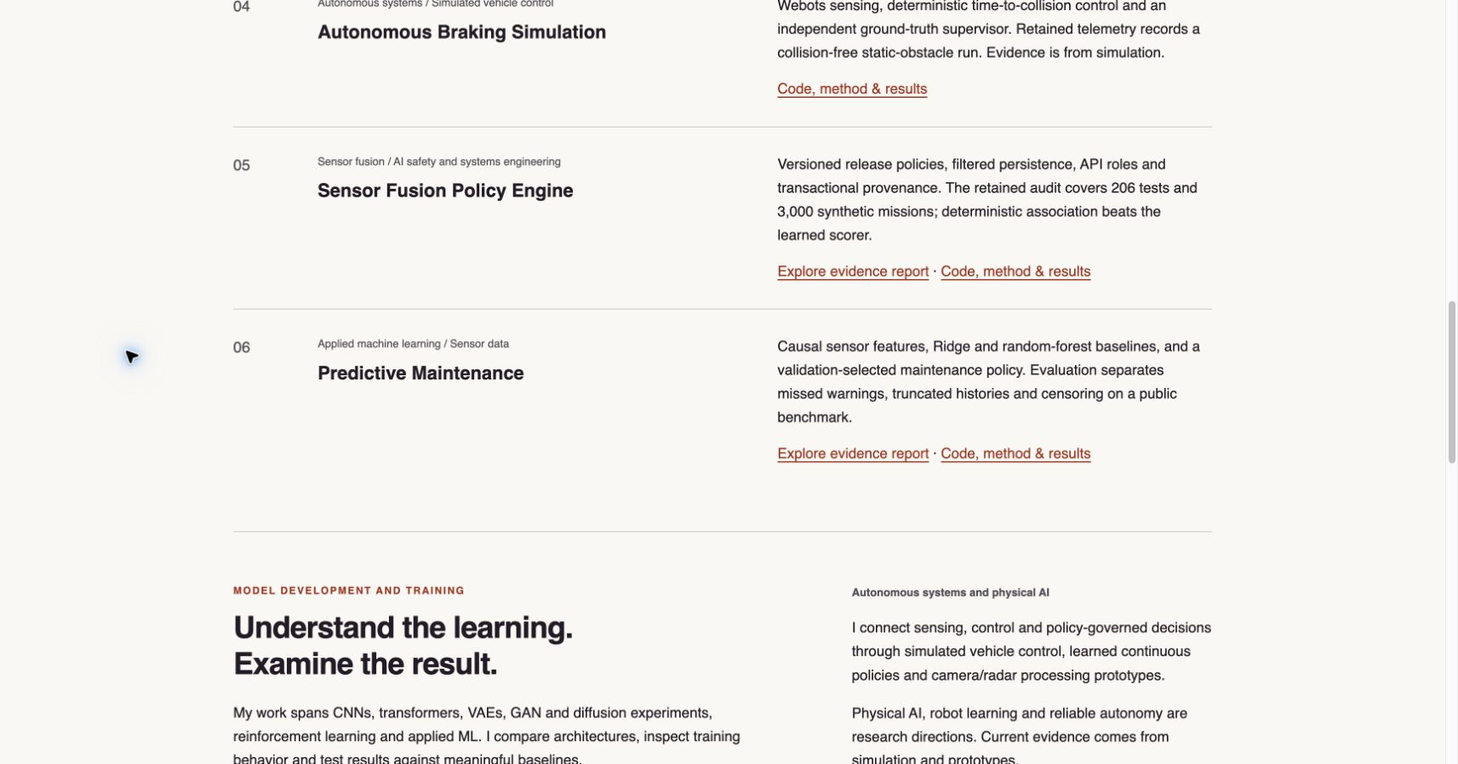
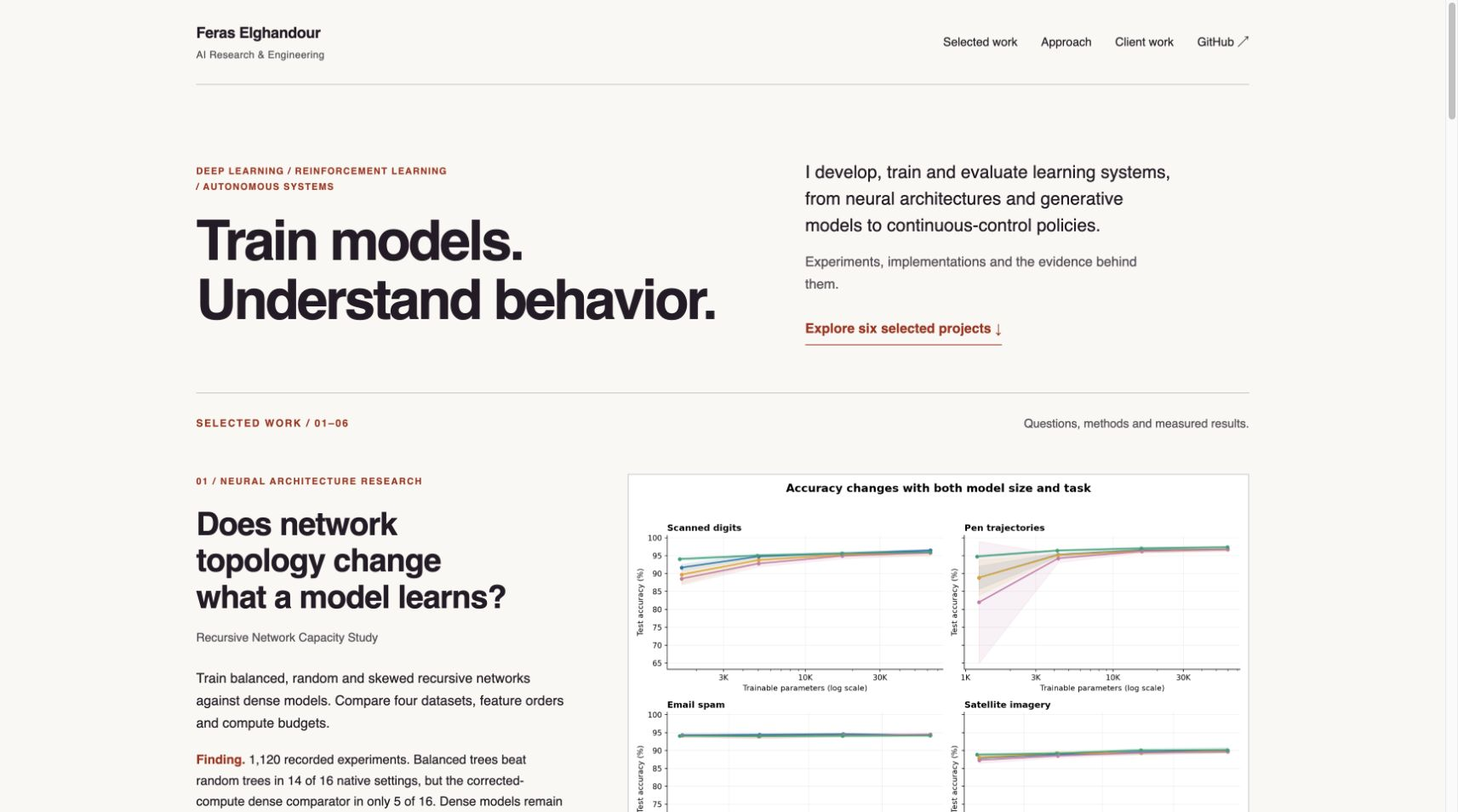
Illustrate six portfolio projects with recorded results and model diagrams

diff --git a/index.html b/index.html
@@ -1,1 +1,1 @@
-<!doctype html><html lang="en"><head><meta charset="utf-8"><meta name="viewport" content="width=device-width,initial-scale=1"><meta name="description" content="AI research engineering by Feras Elghandour: model training, deep learning, generative AI, reinforcement learning and autonomous systems. Explore six evidence-backed projects."><meta name="referrer" content="strict-origin-when-cross-origin"><meta http-equiv="Content-Security-Policy" content="default-src 'none'; script-src 'self'; style-src 'self' 'unsafe-inline'; img-src 'self' data:; connect-src 'none'; base-uri 'none'; form-action 'none'; object-src 'none'"><meta name="color-scheme" content="light"><title>AI Research Engineer | Deep Learning &amp; Autonomous Systems | Feras Elghandour</title><link rel="stylesheet" href="style.css"><link rel="icon" href="data:,"><link rel="canonical" href="https://feraselghandour.github.io/"><meta property="og:title" content="Feras Elghandour | AI Research Engineer | Deep Learning &amp; Autonomous Systems"><meta property="og:description" content="Model training, neural architecture experiments, generative models and autonomous systems. Inspect code, evaluations and six featured projects."><meta property="og:type" content="website"><meta property="og:url" content="https://feraselghandour.github.io/"><meta property="og:image" content="https://feraselghandour.github.io/assets/portfolio-preview.jpg"></head><body><a class="skip" href="#main">Skip to content</a><header><nav aria-label="Main navigation"><a href="https://feraselghandour.github.io/">Feras Elghandour</a><span><a href="#work">Featured projects</a> · <a href="#approach">Research &amp; training</a> · <a href="#client-work">Client work</a> · <a href="https://github.com/FerasElghandour">GitHub</a> · <a href="https://www.linkedin.com/in/feras-elghandour/">LinkedIn / inquiries</a></span></nav></header><main id="main"><section class="hero portfolio-hero"><p class="eyebrow">Feras Elghandour / AI Research Engineer</p><h1>Deep learning.<br>Autonomous systems.</h1><p class="intro">I develop, train and evaluate machine-learning models, from neural architectures and generative models to reinforcement-learning policies. I build experiments and engineering prototypes for sensing, control and reliable decisions.</p><p>My focus is how models learn: architecture choices, training behavior, meaningful baselines and failure analysis.</p><div class="links"><a class="button" href="#work">Explore six featured projects</a><a href="https://github.com/FerasElghandour">Inspect the code</a><a href="https://www.linkedin.com/in/feras-elghandour/">Discuss a role or project</a></div></section><section class="section" id="work"><p class="eyebrow">Selected research and engineering</p><h2>From model training to autonomous systems.</h2><p class="section-lead">Six projects spanning independent research, coursework and engineering prototypes. Each links to the implementation and its evaluation scope.</p><article class="row"><div class="number">01</div><div><p class="category">Independent research / Neural architecture training</p><h3><a href="https://github.com/FerasElghandour/recursive-network-capacity-study">Recursive Network Capacity Study</a></h3></div><div class="description"><p>Train and compare recursive and dense networks across 1,120 recorded experiments, with feature-order and compute controls. The study reports mixed results and competitive dense baselines.</p><a href="https://feraselghandour.github.io/recursive-network-capacity-study/">Explore evidence report</a> · <a href="https://github.com/FerasElghandour/recursive-network-capacity-study">Code, method &amp; results</a></div></article><article class="row"><div class="number">02</div><div><p class="category">Reinforcement learning / Continuous control</p><h3><a href="https://github.com/FerasElghandour/tennis-reinforcement-learning">Shared-Policy DDPG: Tennis</a></h3></div><div class="description"><p>Actor–critic training with replay and target updates. A saved policy averages 2.067 over 100 historical evaluation episodes from one training seed, with score auditing and portable inference.</p><a href="https://feraselghandour.github.io/tennis-reinforcement-learning/">Explore evidence report</a> · <a href="https://github.com/FerasElghandour/tennis-reinforcement-learning">Code, method &amp; results</a></div></article><article class="row"><div class="number">03</div><div><p class="category">Generative deep learning / Training and evaluation</p><h3><a href="https://github.com/FerasElghandour/tabular-vae-comparison">VAE and Beta-VAE Comparison</a></h3></div><div class="description"><p>A complete tabular generative-model experiment comparing reconstruction, latent representations and regularization. Includes a complete training and evaluation notebook from a coursework experiment on a small benchmark.</p><a href="https://github.com/FerasElghandour/tabular-vae-comparison">Code, method &amp; results</a></div></article><article class="row"><div class="number">04</div><div><p class="category">Autonomous systems / Simulated vehicle control</p><h3><a href="https://github.com/FerasElghandour/autonomous-braking-simulation">Autonomous Braking Simulation</a></h3></div><div class="description"><p>Webots sensing, deterministic time-to-collision control and an independent ground-truth supervisor. Recorded telemetry includes a collision-free static-obstacle run in simulation.</p><a href="https://github.com/FerasElghandour/autonomous-braking-simulation">Code, method &amp; results</a></div></article><article class="row"><div class="number">05</div><div><p class="category">Sensor fusion / AI safety and systems engineering</p><h3><a href="https://github.com/FerasElghandour/sensor-fusion-policy-engine">Sensor Fusion Policy Engine</a></h3></div><div class="description"><p>Versioned release policies, filtered persistence, API roles and transactional provenance. The retained audit covers 206 tests and 3,000 synthetic missions; deterministic association beats the learned scorer.</p><a href="https://feraselghandour.github.io/sensor-fusion-policy-engine/">Explore evidence report</a> · <a href="https://github.com/FerasElghandour/sensor-fusion-policy-engine">Code, method &amp; results</a></div></article><article class="row"><div class="number">06</div><div><p class="category">Applied machine learning / Sensor data</p><h3><a href="https://github.com/FerasElghandour/predictive-maintenance">Predictive Maintenance</a></h3></div><div class="description"><p>Causal sensor features, Ridge and random-forest baselines, and a validation-selected maintenance policy. Evaluation separates missed warnings, truncated histories and censoring on a public benchmark.</p><a href="https://feraselghandour.github.io/predictive-maintenance/">Explore evidence report</a> · <a href="https://github.com/FerasElghandour/predictive-maintenance">Code, method &amp; results</a></div></article></section><section class="section split" id="approach"><div><p class="eyebrow">Model development and training</p><h2>Understand the learning.<br>Examine the result.</h2><p>My work spans CNNs, transformers, VAEs, GAN and diffusion experiments, reinforcement learning and applied ML. I compare architectures, inspect training behavior and test results against meaningful baselines.</p><p>Independent experiments sit alongside coursework and engineering prototypes. Repositories identify contribution boundaries and distinguish retained training results from smaller public component editions.</p><p><a href="https://github.com/FerasElghandour#model-development-and-training">Explore the wider model-training portfolio</a></p></div><aside><p class="label">Autonomous systems and physical AI</p><p>I connect sensing, control and policy-governed decisions through simulated vehicle control, learned continuous policies and camera/radar processing prototypes.</p><p>Physical AI, robot learning and reliable autonomy are research directions. Current evidence comes from simulation and prototypes.</p><p class="small">AI safety work includes autonomous-system assurance research, inspectable policies and provenance. Evaluation scope and failure cases are part of the engineering.</p></aside></section><section class="section" id="client-work"><p class="eyebrow">Selected client engagements</p><h2>Commercial decisions. Practical delivery.</h2><p class="section-lead">Three anonymized engagements spanning profitability, sales operations and commerce delivery. Each account distinguishes my contribution, the delivered work and the outcome supported by the records.</p><article class="row"><div class="number">01</div><div><p class="category">Ecommerce strategy</p><h3><a href="case-studies/profitability-diagnostic/">Acquisition Economics &amp; Profitability</a></h3></div><div class="description"><p>A client-approved diagnostic connecting acquisition costs, offers, subscriptions and cash economics to a prioritized growth plan.</p><a href="case-studies/profitability-diagnostic/">Read client case study</a></div></article><article class="row"><div class="number">02</div><div><p class="category">B2B sales operations</p><h3><a href="case-studies/commercial-enablement/">Commercial Systems &amp; Sales Enablement</a></h3></div><div class="description"><p>Market research used in strategic discussion, paired with direct sales-team enablement and a practical CRM adoption plan.</p><a href="case-studies/commercial-enablement/">Read client case study</a></div></article><article class="row"><div class="number">03</div><div><p class="category">Digital commerce operations</p><h3><a href="case-studies/commerce-delivery/">Commerce Delivery &amp; Release QA</a></h3></div><div class="description"><p>Commercial launch direction and specialist delivery coordination, with a client-approved locator approach and accepted bilingual corrections.</p><a href="case-studies/commerce-delivery/">Read client case study</a></div></article></section><section class="section split"><div><h2>Built to be examined.</h2><p>Implementation and evaluation belong together. The portfolio includes validation boundaries, meaningful baselines, failure cases, and deployment instructions so a result can be questioned and reproduced.</p><p>Research studies report mixed and negative findings. Application demonstrations make their supported operating scope explicit.</p></div><aside><h2>Working together</h2><p>For research engineering, model training, deep learning or autonomous-system projects, start with the learning problem, available data and evaluation target. I also bring commercial experience in requirements, workflow adoption and delivery coordination.</p><a class="button" href="https://www.linkedin.com/in/feras-elghandour/">Connect on LinkedIn</a><p class="small">Canada · Client projects and employment inquiries</p></aside></section></main><footer>Feras Elghandour · AI Research Engineer · Deep Learning &amp; Autonomous Systems<br>Public demonstrations use attributed public data or synthetic examples. Client identities and private operating records are omitted.</footer></body></html>
+<!doctype html><html lang="en"><head><meta charset="utf-8"><meta name="viewport" content="width=device-width,initial-scale=1"><meta name="description" content="AI research engineering by Feras Elghandour: model training, deep learning, generative AI, reinforcement learning and autonomous systems. Explore six evidence-backed projects."><meta name="referrer" content="strict-origin-when-cross-origin"><meta http-equiv="Content-Security-Policy" content="default-src 'none'; script-src 'self'; style-src 'self' 'unsafe-inline'; img-src 'self' data: https://raw.githubusercontent.com/FerasElghandour/; connect-src 'none'; base-uri 'none'; form-action 'none'; object-src 'none'"><meta name="color-scheme" content="light"><title>AI Research Engineer | Deep Learning &amp; Autonomous Systems | Feras Elghandour</title><link rel="stylesheet" href="style.css"><link rel="stylesheet" href="visual.css"><link rel="icon" href="data:,"><link rel="canonical" href="https://feraselghandour.github.io/"><meta property="og:title" content="Feras Elghandour | AI Research Engineer | Deep Learning &amp; Autonomous Systems"><meta property="og:description" content="Model training, neural architecture experiments, generative models and autonomous systems. Inspect code, evaluations and six featured projects."><meta property="og:type" content="website"><meta property="og:url" content="https://feraselghandour.github.io/"><meta property="og:image" content="https://feraselghandour.github.io/assets/portfolio-preview.jpg"></head><body class="portfolio-page"><a class="skip" href="#main">Skip to content</a><header><nav aria-label="Main navigation"><a class="wordmark" href="/">Feras Elghandour<span>AI Research &amp; Engineering</span></a><div class="nav-links"><a href="#work">Selected work</a><a href="#approach">Approach</a><a href="#client-work">Client work</a><a href="https://github.com/FerasElghandour">GitHub ↗</a></div></nav></header><main id="main"><section class="visual-hero"><div><p class="eyebrow">Deep learning / Reinforcement learning / Autonomous systems</p><h1>Train models.<br>Understand behavior.</h1></div><div class="hero-summary"><p>I develop, train and evaluate learning systems, from neural architectures and generative models to continuous-control policies.</p><p class="secondary">Experiments, implementations and the evidence behind them.</p><a class="text-action" href="#work">Explore six selected projects ↓</a></div></section><section id="work" class="visual-work" aria-label="Six selected projects"><div class="work-heading"><p class="eyebrow">Selected work / 01–06</p><p>Questions, methods and measured results.</p></div><article class="project lead-project" id="recursive-network-capacity-study"><div class="project-copy"><p class="eyebrow">01 / Neural architecture research</p><h2>Does network topology change what a model learns?</h2><p class="project-name">Recursive Network Capacity Study</p><p>Train balanced, random and skewed recursive networks against dense models. Compare four datasets, feature orders and compute budgets.</p><p class="finding"><strong>Finding.</strong> 1,120 recorded experiments. Balanced trees beat random trees in 14 of 16 native settings, but the corrected-compute dense comparator in only 5 of 16. Dense models remain faster.</p><div class="project-links"><a class="text-action" href="https://feraselghandour.github.io/recursive-network-capacity-study/">Compare the architectures ↗</a><a href="https://github.com/FerasElghandour/recursive-network-capacity-study">Source code ↗</a></div><p class="project-kind">Independent research</p></div><figure class="project-figure lead-figure"><a href="assets/capacity-results.png" aria-label="Open full-size figure: Recursive Network Capacity Study"><img src="assets/capacity-results.png" alt="Four recorded accuracy plots compare balanced, random and skewed trees with a dense MLP across model sizes." loading="eager" decoding="async"></a><figcaption>Actual study figure: test accuracy against trainable parameters. Lines show means; bands show one seed standard deviation across ten seeds. Native feature order.</figcaption></figure></article><article class="project " id="tennis-reinforcement-learning"><div class="project-copy"><p class="eyebrow">02 / Reinforcement learning</p><h2>Learn a continuous control policy.</h2><p class="project-name">Shared-Policy DDPG: Tennis</p><p>Train a shared actor–critic policy with replay, target updates and bounded continuous actions. Package the saved policy for CPU inference.</p><p class="finding"><strong>Finding.</strong> The saved policy averages 2.067 over 100 historical evaluation episodes. The training trace below shows learning progress, variability and later regression.</p><div class="project-links"><a class="text-action" href="https://feraselghandour.github.io/tennis-reinforcement-learning/">Explore the training record ↗</a><a href="https://github.com/FerasElghandour/tennis-reinforcement-learning">Source code ↗</a></div><p class="project-kind">Coursework + engineering</p></div><figure class="project-figure "><a href="assets/tennis-report.png" aria-label="Open full-size figure: Shared-Policy DDPG: Tennis"><img src="assets/tennis-report.png" alt="Recorded rolling 100-episode Tennis training score rises, peaks, then falls before a partial recovery." loading="lazy" decoding="async"></a><figcaption>Actual recorded training curve: the rolling 100-episode mean across 875 training episodes. This is a separate record from saved-policy evaluation. One training seed.</figcaption></figure></article><article class="project " id="tabular-vae-comparison"><div class="project-copy"><p class="eyebrow">03 / Generative deep learning</p><h2>Measure the cost of stronger regularization.</h2><p class="project-name">VAE and Beta-VAE Comparison</p><p>Train a 30-feature VAE with a two-dimensional latent space. Compare β = 1 and β = 4 using training-only scaling and deterministic mean-latent reconstruction.</p><p class="finding"><strong>Finding.</strong> Recorded test reconstruction MSE: 0.2831 at β = 1 and 0.3231 at β = 4. Stronger regularization increases reconstruction error in this experiment.</p><div class="project-links"><a class="text-action" href="https://github.com/FerasElghandour/tabular-vae-comparison">Inspect the training notebook ↗</a></div><p class="project-kind">Generative-model coursework</p></div><figure class="project-figure "><a href="assets/vae-comparison.png" aria-label="Open full-size figure: VAE and Beta-VAE Comparison"><img src="assets/vae-comparison.png" alt="VAE test reconstruction MSE is 0.2831 for beta one and 0.3231 for beta four." loading="lazy" decoding="async"></a><figcaption>Replotted from results/reproduction.json, October 17, 2026. Lower test reconstruction MSE is better. A small benchmark experiment, with no clinical or privacy guarantee.</figcaption></figure><figure class="supplement model-schematic"><a href="assets/vae-training.svg" aria-label="Open full-size VAE training diagram"><img src="assets/vae-training.svg" alt="VAE training path: scaled features to encoder, sampled 2D latent space, decoder and reconstruction, with a beta-weighted KL objective." loading="lazy"></a><figcaption>Architecture schematic of the implemented training path. Evaluation uses the latent mean, rather than a random sample.</figcaption></figure></article><article class="project " id="autonomous-braking-simulation"><div class="project-copy"><p class="eyebrow">04 / Autonomous systems</p><h2>Connect sensing to a measurable stop.</h2><p class="project-name">Autonomous Braking Simulation</p><p>Build a Webots controller that validates sensing, computes time to collision and enters a persistent braking state. Check the run with an independent supervisor.</p><p class="finding"><strong>Finding.</strong> The recorded static-obstacle run lasts 17.056 seconds without collision, with a minimum ground-truth obstacle distance of 15.3837 metres.</p><div class="project-links"><a class="text-action" href="https://github.com/FerasElghandour/autonomous-braking-simulation">Inspect controller and telemetry ↗</a></div><p class="project-kind">Simulation + control engineering</p></div><figure class="project-figure "><a href="assets/braking-telemetry.png" aria-label="Open full-size figure: Autonomous Braking Simulation"><img src="assets/braking-telemetry.png" alt="Ground-truth speed and obstacle distance over the recorded 17-second braking simulation." loading="lazy" decoding="async"></a><figcaption>Replotted from the saved run.csv. Dashed line marks entry into the braking state. Simulation evidence from one straight-road, static-obstacle scenario.</figcaption></figure><figure class="supplement simulation-frame"><a href="https://raw.githubusercontent.com/FerasElghandour/autonomous-braking-simulation/main/results/final_screenshot.png"><img src="https://raw.githubusercontent.com/FerasElghandour/autonomous-braking-simulation/main/results/final_screenshot.png" alt="Actual Webots screenshot from the saved static-obstacle braking experiment, showing the vehicle and red obstacle." loading="lazy" width="946" height="839"></a><figcaption>Actual Webots frame from the recorded run. <a href="https://github.com/FerasElghandour/autonomous-braking-simulation/blob/main/results/final_screenshot.png">Original screenshot ↗</a></figcaption></figure></article><article class="project " id="sensor-fusion-policy-engine"><div class="project-copy"><p class="eyebrow">05 / Sensor fusion &amp; AI safety</p><h2>Govern what reaches the fusion decision.</h2><p class="project-name">Sensor Fusion Policy Engine</p><p>Apply versioned camera/radar release policies before association and persistence. Compare a deterministic matcher with a learned scorer while retaining decision provenance.</p><p class="finding"><strong>Finding.</strong> Across 3,000 synthetic missions, mean association F1 is 0.9416 for the deterministic method and 0.9298 for the learned method.</p><div class="project-links"><a class="text-action" href="https://feraselghandour.github.io/sensor-fusion-policy-engine/">Explore the policy scenarios ↗</a><a href="https://github.com/FerasElghandour/sensor-fusion-policy-engine">Source code ↗</a></div><p class="project-kind">Systems engineering prototype</p></div><figure class="project-figure "><a href="assets/fusion-comparison.png" aria-label="Open full-size figure: Sensor Fusion Policy Engine"><img src="assets/fusion-comparison.png" alt="Deterministic sensor association has mean F1 0.9416; learned association has mean F1 0.9298 across three seeds." loading="lazy" decoding="async"></a><figcaption>Replotted from the recorded three-seed release evaluation. Each dot is one seed. Results describe synthetic missions, rather than operational sensor performance.</figcaption></figure></article><article class="project " id="predictive-maintenance"><div class="project-copy"><p class="eyebrow">06 / Applied machine learning</p><h2>Turn a prediction into a warning policy.</h2><p class="project-name">Predictive Maintenance</p><p>Build causal sensor features, compare Ridge and random-forest baselines, then select a maintenance threshold on validation engines before replaying test histories.</p><p class="finding"><strong>Finding.</strong> Of 100 truncated historical test histories, 35 enter the observed danger window. Five of those receive no warning; 65 histories end before that window.</p><div class="project-links"><a class="text-action" href="https://feraselghandour.github.io/predictive-maintenance/">Inspect the maintenance replay ↗</a><a href="https://github.com/FerasElghandour/predictive-maintenance">Source code ↗</a></div><p class="project-kind">ML + decision evaluation</p></div><figure class="project-figure "><a href="assets/maintenance-outcomes.png" aria-label="Open full-size figure: Predictive Maintenance"><img src="assets/maintenance-outcomes.png" alt="Observed test outcomes: 29 timely warnings, one early intervention, five misses and 65 censored engine histories." loading="lazy" decoding="async"></a><figcaption>Replotted from the corrected report data. Categories sum to 100 test engines. The 45% health threshold was selected on validation; endpoint MAE is 13.44 cycles.</figcaption></figure></article></section><section class="section split" id="approach"><div><p class="eyebrow">How I work</p><h2>Training is a question.<br>Evaluation is the test.</h2><p>I work across CNNs, transformers, variational autoencoders, GAN and diffusion experiments, reinforcement learning and applied ML. My focus is architecture choices, learning behavior and meaningful comparisons.</p><p>Independent research, coursework and engineering prototypes each have a place here. Project documentation identifies contributions, available artifacts and reproducibility limits.</p><a class="text-action" href="https://github.com/FerasElghandour#model-development-and-training">Explore the wider training portfolio ↗</a></div><aside><p class="label">Autonomous systems and physical AI</p><p>My work connects sensing, learned policies, deterministic control and decision provenance. Current evidence comes from simulation and prototypes.</p><p>Robot learning, physical AI and reliable autonomy are research directions I want to develop further.</p></aside></section><section class="section" id="client-work"><p class="eyebrow">Selected client engagements</p><h2>Commercial decisions. Practical delivery.</h2><p class="section-lead">Three anonymized engagements spanning profitability, sales operations and commerce delivery. Each account distinguishes my contribution, the delivered work and the outcome supported by the records.</p><article class="row"><div class="number">01</div><div><p class="category">Ecommerce strategy</p><h3><a href="case-studies/profitability-diagnostic/">Acquisition Economics &amp; Profitability</a></h3></div><div class="description"><p>A client-approved diagnostic connecting acquisition costs, offers, subscriptions and cash economics to a prioritized growth plan.</p><a href="case-studies/profitability-diagnostic/">Read client case study</a></div></article><article class="row"><div class="number">02</div><div><p class="category">B2B sales operations</p><h3><a href="case-studies/commercial-enablement/">Commercial Systems &amp; Sales Enablement</a></h3></div><div class="description"><p>Market research used in strategic discussion, paired with direct sales-team enablement and a practical CRM adoption plan.</p><a href="case-studies/commercial-enablement/">Read client case study</a></div></article><article class="row"><div class="number">03</div><div><p class="category">Digital commerce operations</p><h3><a href="case-studies/commerce-delivery/">Commerce Delivery &amp; Release QA</a></h3></div><div class="description"><p>Commercial launch direction and specialist delivery coordination, with a client-approved locator approach and accepted bilingual corrections.</p><a href="case-studies/commerce-delivery/">Read client case study</a></div></article></section><section class="section contact-strip"><div><p class="eyebrow">Research, engineering &amp; collaboration</p><h2>Start with the problem.</h2><p>For model training, deep learning and autonomous-system projects, connect the learning objective to an evaluation that matters.</p></div><a class="button" href="https://www.linkedin.com/in/feras-elghandour/">Connect on LinkedIn ↗</a></section></main><footer>Feras Elghandour · AI Research Engineer · Deep Learning &amp; Autonomous Systems<br>Figures use recorded project results. Simulation, synthetic evaluations and historical records are labeled. Client identities and private operating records are omitted.<br><a href="assets/FIGURE_SOURCES.md">Figure sources and reproduction notes</a></footer></body></html>

diff --git a/visual.css b/visual.css
@@ -1,0 +1,51 @@
+/* Visual research portfolio. Existing client report styles remain in style.css. */
+.portfolio-page{font-size:1rem;line-height:1.65}
+.portfolio-page header,.portfolio-page main,.portfolio-page footer{width:min(1248px,calc(100% - 80px))}
+.portfolio-page nav{align-items:center;padding:24px 0;gap:24px}
+.wordmark{font-size:18px;font-weight:700;text-decoration:none;letter-spacing:-.02em}
+.wordmark span{display:block;font-size:12px;font-weight:400;letter-spacing:.025em;color:var(--muted);margin-top:2px}
+.nav-links{display:flex;align-items:center;gap:28px;flex-wrap:wrap;font-size:14px}
+.nav-links a{text-decoration:none;padding:10px 0}
+.nav-links a:hover{text-decoration:underline}
+.visual-hero{display:grid;grid-template-columns:1.25fr 1fr;gap:64px;padding:64px 0 56px;align-items:center}
+.visual-hero .eyebrow{max-width:50ch;font-size:11px;letter-spacing:.10em}
+.visual-hero h1{font-size:clamp(40px,4.8vw,66px);line-height:1.06;max-width:18ch;margin:20px 0 0;letter-spacing:-.045em;text-wrap:balance}
+.hero-summary{padding-top:24px;max-width:49ch}
+.hero-summary>p:first-child{font-size:21px;line-height:1.5;margin:0 0 14px}
+.hero-summary .secondary{color:var(--muted);margin:0 0 20px}
+.text-action{font-weight:650;text-decoration:none;border-bottom:1px solid currentColor;padding:6px 0;display:inline-block}
+.work-heading{border-top:1px solid var(--line);display:flex;align-items:center;justify-content:space-between;gap:24px;padding:24px 0}
+.work-heading p{margin:0}.work-heading>p:last-child{color:var(--muted);font-size:14px}
+.project{display:grid;grid-template-columns:minmax(0,.85fr) minmax(0,1.35fr);gap:48px;padding:56px 0;border-top:1px solid var(--line);align-items:center;scroll-margin-top:24px}
+.lead-project{padding-top:24px;border-top:0;align-items:start}
+.project-copy{max-width:50ch}.project-copy h2{font-size:clamp(27px,2.7vw,38px);line-height:1.14;text-wrap:balance;margin-bottom:14px;max-width:22ch}
+.project-copy .eyebrow{font-size:11px;margin:0 0 20px}
+.project-name{font-size:14px;color:var(--muted);margin:0 0 24px}
+.project-copy>p:not(.eyebrow):not(.project-name):not(.project-kind){margin-bottom:18px}
+.finding{font-size:15px;line-height:1.65}.finding strong{color:var(--accent)}
+.project-links{display:flex;align-items:baseline;gap:22px;flex-wrap:wrap;font-size:14px;margin-top:24px}
+.project-kind{font-size:12px;color:var(--muted);margin:18px 0 0}
+.project-figure{margin:0;min-width:0}.project-figure>a{display:block;background:var(--paper)}
+.project-figure img{width:100%;height:auto;display:block;border:1px solid var(--line)}
+.project-figure figcaption,.supplement figcaption{font-size:12px;line-height:1.6;color:var(--muted);max-width:85ch;margin:12px 0 0}
+.project-figure a:hover img{border-color:var(--accent)}
+.supplement{grid-column:1/-1;margin:0;border-top:1px solid var(--line);padding-top:28px}
+.supplement>img{display:block;width:100%;max-width:1040px;margin:auto}
+.supplement figcaption{margin:16px auto 0;text-align:center}
+.simulation-frame{display:grid;grid-template-columns:1.35fr .85fr;gap:48px;align-items:center}
+.simulation-frame img{display:block;max-height:400px;object-fit:contain;width:100%;height:auto}
+.simulation-frame figcaption{margin:0;text-align:left;max-width:40ch;font-size:14px}
+.portfolio-page #approach{padding:64px 0;grid-template-columns:1.35fr .85fr;gap:64px}
+.portfolio-page #approach h2{font-size:34px}
+.portfolio-page #client-work{padding:56px 0}
+.portfolio-page #client-work h2{font-size:30px}
+.portfolio-page #client-work .row h3{font-size:20px}
+.contact-strip{display:flex;justify-content:space-between;gap:40px;align-items:center;padding:56px 0}
+.contact-strip p{max-width:64ch}.contact-strip .button{white-space:nowrap}
+.portfolio-page footer{font-size:12px;line-height:1.8}
+@media(max-width:1000px){.visual-hero{gap:36px}.project{gap:32px;grid-template-columns:1fr 1.2fr}.nav-links{gap:20px}.project-copy h2{font-size:29px}}
+@media(max-width:760px){.portfolio-page header,.portfolio-page main,.portfolio-page footer{width:calc(100% - 36px)}.portfolio-page nav{gap:12px}.nav-links{gap:20px;font-size:13px}.visual-hero{grid-template-columns:1fr;gap:20px;padding:36px 0}.visual-hero h1{font-size:44px}.hero-summary{padding-top:0}.hero-summary>p:first-child{font-size:18px}.work-heading{align-items:start;gap:12px;flex-direction:column}.project{grid-template-columns:1fr;gap:24px;padding:36px 0}.lead-project{padding-top:16px}.project-copy{max-width:none}.project-copy h2{font-size:32px;max-width:23ch}.project-name{margin-bottom:16px}.project-figure figcaption{font-size:12px}.project-links{margin-top:16px}.simulation-frame{grid-template-columns:1fr;gap:16px}.simulation-frame img{max-height:none}.simulation-frame figcaption{max-width:none}.portfolio-page #approach{grid-template-columns:1fr;gap:28px;padding:40px 0}.contact-strip{flex-direction:column;align-items:start;padding:40px 0}.supplement{padding-top:18px;overflow:hidden}.supplement figcaption{text-align:left}.portfolio-page #client-work{padding:40px 0}}
+@media print{.visual-hero{padding:20px 0}.project{break-inside:avoid}.project-figure img{max-height:350px;object-fit:contain}}
+
+.model-schematic>a{display:block;max-width:1040px;margin:auto}.model-schematic img{width:100%;display:block}
+@media(max-width:760px){.visual-hero h1{font-size:38px}.model-schematic{overflow-x:auto}.model-schematic>a{min-width:680px}.model-schematic figcaption{text-align:left;max-width:38ch}}

diff --git a/assets/FIGURE_SOURCES.md b/assets/FIGURE_SOURCES.md
@@ -1,0 +1,24 @@
+# Figure sources
+
+The portfolio uses existing project artifacts and figures replotted from recorded results. No models were retrained for this presentation update.
+
+- **capacity-results.png:** [recursive-network-capacity-study/results/accuracy_by_size.png](https://github.com/FerasElghandour/recursive-network-capacity-study/blob/main/results/accuracy_by_size.png). Original image, unmodified.
+- **tennis-report.png:** [tennis-reinforcement-learning/assets/report-preview.png](https://github.com/FerasElghandour/tennis-reinforcement-learning/blob/main/assets/report-preview.png). Original image, unmodified.
+- **vae-comparison.png:** [tabular-vae-comparison/results/reproduction.json](https://github.com/FerasElghandour/tabular-vae-comparison/blob/main/results/reproduction.json). Replotted from the recorded numerical artifact.
+- **braking-telemetry.png:** [autonomous-braking-simulation/results/run.csv](https://github.com/FerasElghandour/autonomous-braking-simulation/blob/main/results/run.csv). Replotted from the recorded numerical artifact.
+- **fusion-comparison.png:** [sensor-fusion-policy-engine/validation/release-20261017/results.json](https://github.com/FerasElghandour/sensor-fusion-policy-engine/blob/main/validation/release-20261017/results.json). Replotted from the recorded numerical artifact.
+- **maintenance-outcomes.png:** [predictive-maintenance/docs/data.json](https://github.com/FerasElghandour/predictive-maintenance/blob/main/docs/data.json). Replotted from the recorded numerical artifact.
+
+The Webots scene is the original results/final_screenshot.png from autonomous-braking-simulation, displayed without alteration. Its Git blob SHA is 2c571342a76ed5500b715100b93a30b48af79706.
+
+vae-training.svg is a new architecture schematic of the documented 30-feature, 2D-latent VAE. It illustrates the model path, rather than an experimental result. Test reconstruction uses the latent mean.
+
+Figure context:
+
+- Capacity: four datasets, ten recorded seeds per cell, native feature order. Shading is one seed standard deviation, not a confidence interval.
+- Tennis: the plot is the rolling training score; the 2.067 saved-policy evaluation is a separate historical sequence. One training seed.
+- VAE: deterministic mean-latent reconstruction with train-only scaling. MSE values 0.2830780386227613 and 0.3231309277272364.
+- Braking: one saved straight-road, static-obstacle simulation. Lines use true_speed_mps and true_distance_m; the marker is the first BRAKING controller state.
+- Fusion: mean F1 over three recorded seeds, 1,000 synthetic missions per seed. Dots are individual seed values.
+- Maintenance: 29 timely warnings, one early intervention, five missed observed windows, 65 histories censored before the danger window. The 45% threshold was selected on validation. These are observed-window outcomes, not eventual failure coverage.
+
